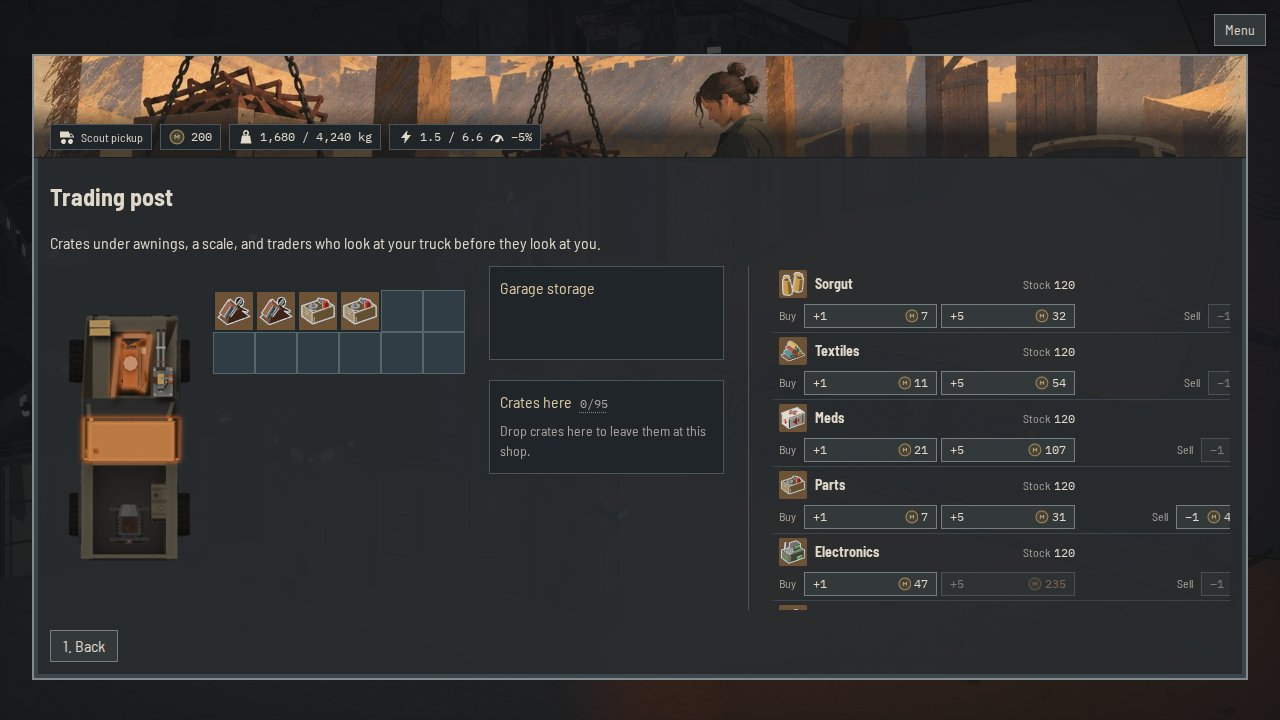
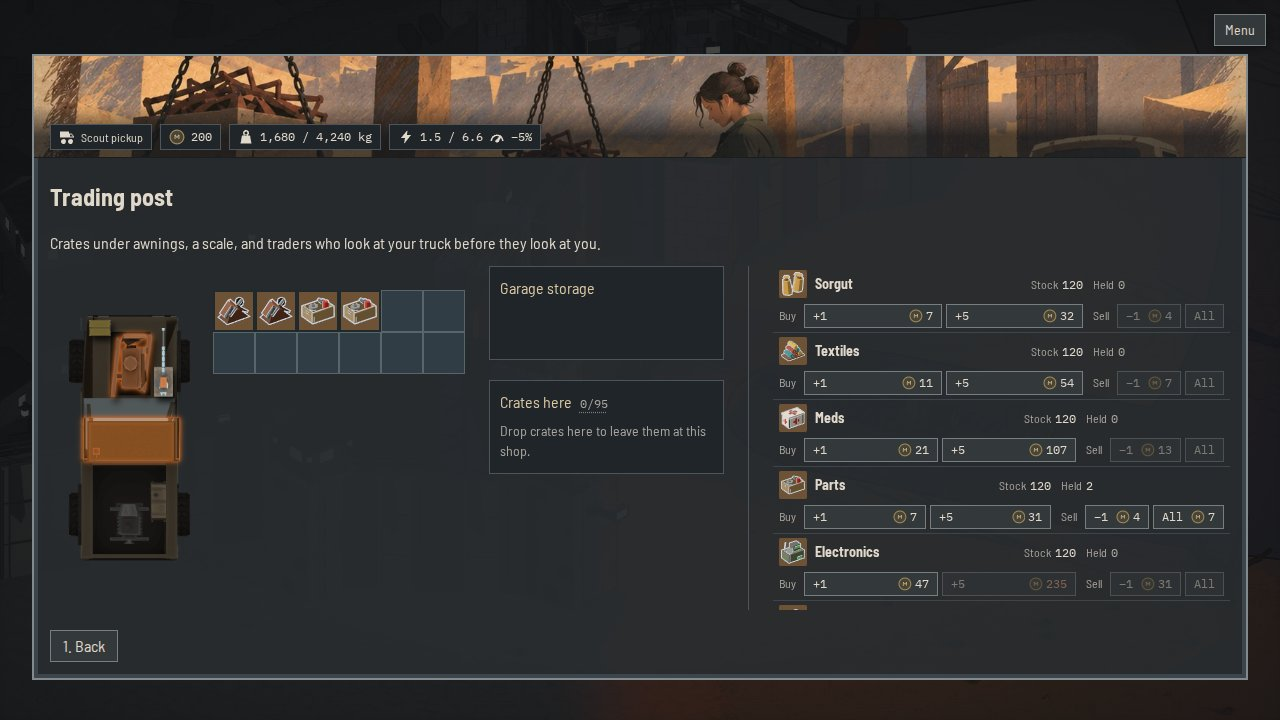
Show the Trading post Sell column at 1280x720 without Acumen
The narrow market row layout lost to the five-column no-profit template,
which is more specific, so on a shop column under 620px every goods row
was wider than its column and the Sell price, -1 and All were cut off.
The narrow layout now names the no-profit rows too. The layout check
flags a desktop goods row wider than its column.

diff --git a/game/src/ui/styles/shop.css b/game/src/ui/styles/shop.css
@@ -836,7 +836,9 @@
     row-gap: var(--space-3);
   }
   .goods.truck .good-row,
-  .goods.stocked .good-row {
+  .goods.stocked .good-row,
+  .goods.truck.no-profit .good-row,
+  .goods.stocked.no-profit .good-row {
     grid-template-columns: 1fr auto auto auto;
     grid-template-areas:
       "name theirs held profit"

diff --git a/game/docs/tools.md b/game/docs/tools.md
@@ -19,7 +19,7 @@ These commands drive headless Chromium. All but `boot:time` and `perf` need the 
 - `npm run census [-- --scenes <id,id>]` finds work the game redoes. It serves the dev build with `vite`, opens each bench scene in its own headless browser on the real GPU, by default town-day, town-night, fight and drive, and wraps every method of the game and of each system object on it once the game boots. Each call records its own time and the JS heap growth, both without its wrapped callees, and whether the world and every object argument are the same as on the method's previous call. Number arguments are left out of that check, since times change every frame. The report ranks methods per frame by redone work, the own time and garbage of calls on the same state, and writes `perf-reports/census-<machine>-<commit>-<scene>.json`. Time and garbage per function in general come from `npm run perf -- --profile`, which the census does not repeat. The wrappers cost time themselves, so a method that calls a wrapped method thousands of times per frame shows extra own time, and the dev build runs slower than a release build. Use it to find repeated work, not to time the game.
 - `node scripts/turn-cost.mjs [--job trader:1] [--turns 60] [--skip 10] [--dir tmp/turn-cost] [--profile <file.cpuprofile>]` records a physics run with `progression:record` under `--cpu-prof` and prints the steady cost of a worker turn by category, by pipeline step of `endTurn()` and by function. `--skip` drops the first turns as warm-up. `--profile` reads a saved profile instead of recording one.
 - `npm run screens -- [name ...]` rewrites images in the [screens gallery](screens/README.md) from the layout check's states, and prints their layout faults. Read the gallery before rendering the game.
-- `npm run layout` boots a new game on a fixed seed and checks the surveyed screens in English, Russian and pseudo-long text at 1280x720 and 700x800, and the inspector and the town pages also at 1440x900. It fails on clipped text, text out of its box, sideways page scroll, overlapping or unreachable controls, missing Cyrillic glyphs, English in Russian a quest page picture frame outside its shape (`quest-frame-shape`), a town way out that moves between pages or section pages that differ in band or heading (`nav-moved`), a desktop town front page band under the section band or with spare height above its choices (`front-band`), a checker that misses its planted overflowing button, and on the inventory (`inventory-bench`), for every pick on the start truck and on the sorokonoga: a frame outside the window, any scroll, column tops out of line, Close off the title's row, action buttons of different widths and clipped text. After the language passes, an English pass checks the HUD, the inventory, the shop and Options at 1280x720 with UI size 130% and 80%, and at 640x360 at 100%, the smallest layer, and writes `tmp/layout/<screen>-en-<w>x<h>-ui<percent>.png`. An empty `LAYOUT_LOCALES=` runs only that pass. It writes `tmp/layout/<screen>-<language>-<w>x<h>.png` and `tmp/layout/faults.json`. `LAYOUT_LOCALES=ru` and `LAYOUT_STATES=shop,trade` narrow a run. [Text and languages](architecture/text.md#the-layout-check) has the details.
+- `npm run layout` boots a new game on a fixed seed and checks the surveyed screens in English, Russian and pseudo-long text at 1280x720 and 700x800, and the inspector and the town pages also at 1440x900. It fails on clipped text, text out of its box, sideways page scroll, overlapping or unreachable controls, missing Cyrillic glyphs, English in Russian a quest page picture frame outside its shape (`quest-frame-shape`), a town way out that moves between pages or section pages that differ in band or heading (`nav-moved`), a desktop town front page band under the section band or with spare height above its choices (`front-band`), a desktop Trading post goods row wider than its column (`goods-row`), a checker that misses its planted overflowing button, and on the inventory (`inventory-bench`), for every pick on the start truck and on the sorokonoga: a frame outside the window, any scroll, column tops out of line, Close off the title's row, action buttons of different widths and clipped text. After the language passes, an English pass checks the HUD, the inventory, the shop and Options at 1280x720 with UI size 130% and 80%, and at 640x360 at 100%, the smallest layer, and writes `tmp/layout/<screen>-en-<w>x<h>-ui<percent>.png`. An empty `LAYOUT_LOCALES=` runs only that pass. It writes `tmp/layout/<screen>-<language>-<w>x<h>.png` and `tmp/layout/faults.json`. `LAYOUT_LOCALES=ru` and `LAYOUT_STATES=shop,trade` narrow a run. [Text and languages](architecture/text.md#the-layout-check) has the details.
 - `npm run site:shot -- <site-id>[,<site-id>] [--hour 23[,12]] [--zoom 1] [--out .playtest/sites] [--url http://localhost:5173]` moves the truck to each site's first pad, sets the hour and saves one screenshot per site and hour. It fails on any browser error.
 - `node scripts/look-board.mjs shoot --url <dev server url> --out <dir> [--only <names>] [--url-extra <query>]` shoots the fixed look board through the dev server: the mud edge, a scrub spot and the ravine by day, the mud edge far, evening and night, the player truck, the start town at night with lamps on and Chaos Highway on seed 1 by day and at night, and its asphalt edge up close at 80 tiles north of the start, by day at two zooms, at 17:00, and the open road from farther out. It fails on a flat shot, which is a blank canvas or a covered screen. `compare --before <dir> --after <dir> --out <dir>` prints each shot's largest channel difference and its share of pixels off by more than 8, and writes labeled before, after and amplified diff sheets. `samplers --url <url>` prints the programs with the most texture samplers by day and at night with lamps, on Icarus and Chaos Highway. Shoot the board before and after a look or render change and compare. The shots share one game, and each moves its clock, so a skipped shot puts the later ones on another day: compare only runs with the same `--only` list. Knob values in `--url-extra` count only with `tune` in it. Fort lamps fade in at night, so night lamp shots differ a little between runs. Set `ROAM_CHROME` to a Chromium headless shell when Playwright's own build is missing.
 - `npm run shot -- [<scene.shot.ts>] [--model <name>[,<name>]] [--truck <chassis> --hp 100,50,0] [--camera quarter|game|front|back|top|left|right|bottom|all] [--zoom 1] [--hour 12] [--out tmp/shots]` draws assets into one labeled PNG sheet and prints its path. It needs no dev server and opens no window. It draws through the game's own models, materials, sun, sky and model fill, with no outline pass and no terrain. `--model` draws one row of models from `NAMES`. `--truck` draws the truck on that chassis from a new world, the player's truck first, at each HP share on every mounted part. When no truck in the new world drives that chassis, it draws the gear the first driver who rolls the chassis would carry, or the bare chassis when no driver rolls it, like the semi. A scene file draws anything else: it default-exports a `Shot` from `src/three/shot.ts`, with rows of panels, each a label and a `build()` that returns a Three.js object. The kit has `model()`, `vehicleOn()`, `withHp()`, `truck()` and `world()` for scene files to use. Every view frames all panels at one shared scale. `quarter`, the default, looks from the game's camera direction. `front`, `back`, `left` and `right` look level at that side of a truck facing +x, and `top` and `bottom` look straight down and up with the nose at the top. `all` gives each panel its own row with the 3/4, front, back, top down, left side, right side and bottom views. `game` draws at the game's own scale for a 1000 px tall window at that `--zoom`, so a detail shows at the size a player sees it. `--hour` lights the sheet with the game's daylight at that hour. It fails on any page error, an unknown model or chassis and an empty panel.
